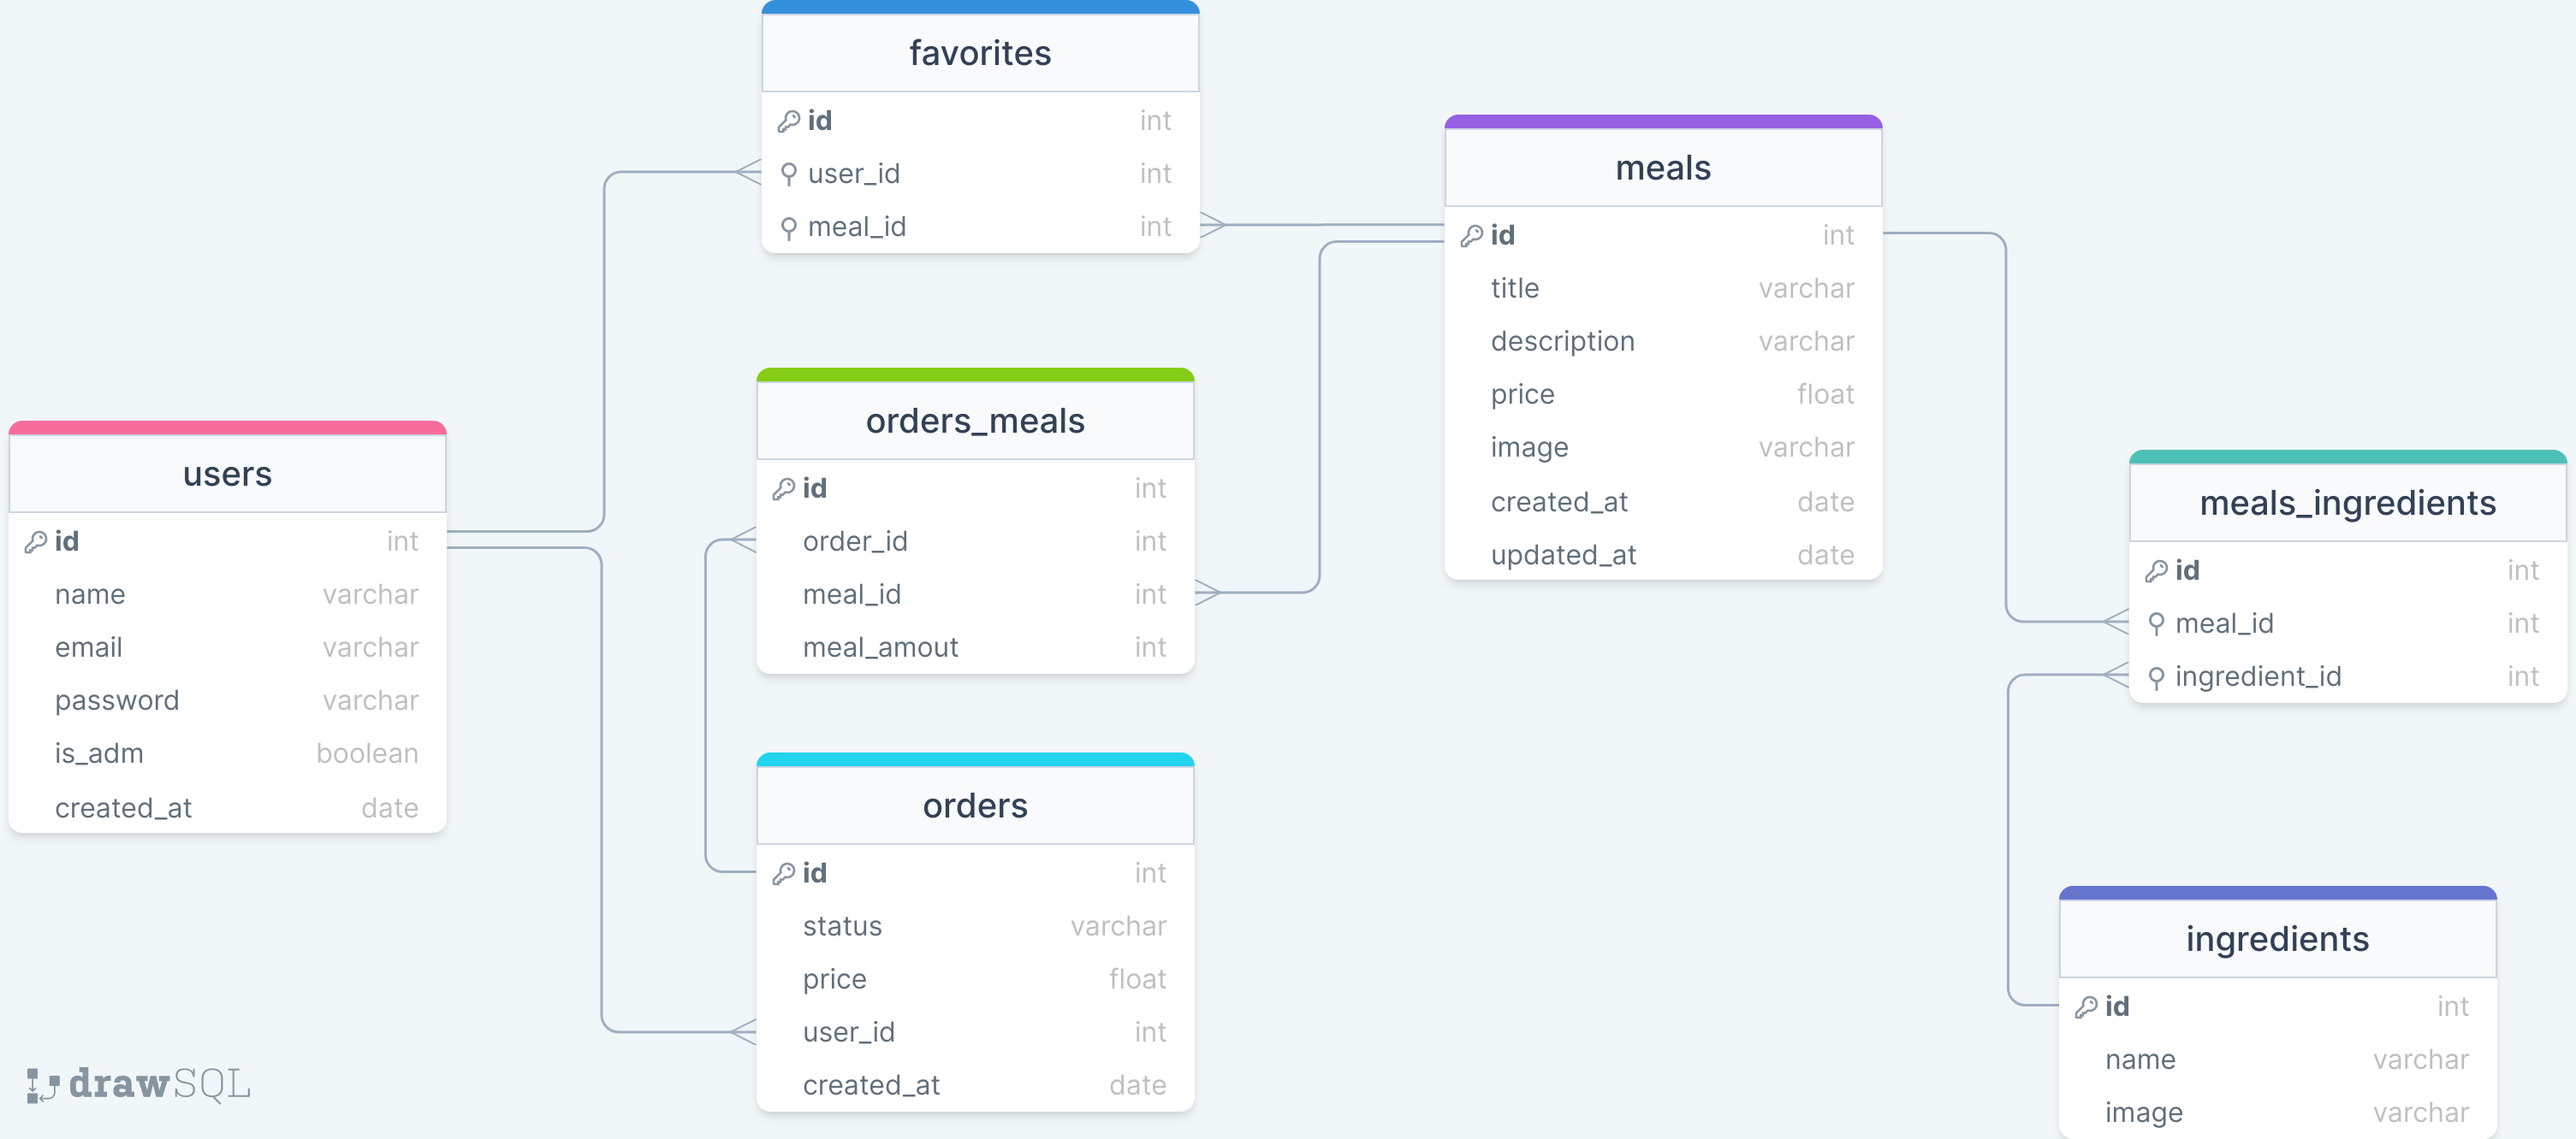
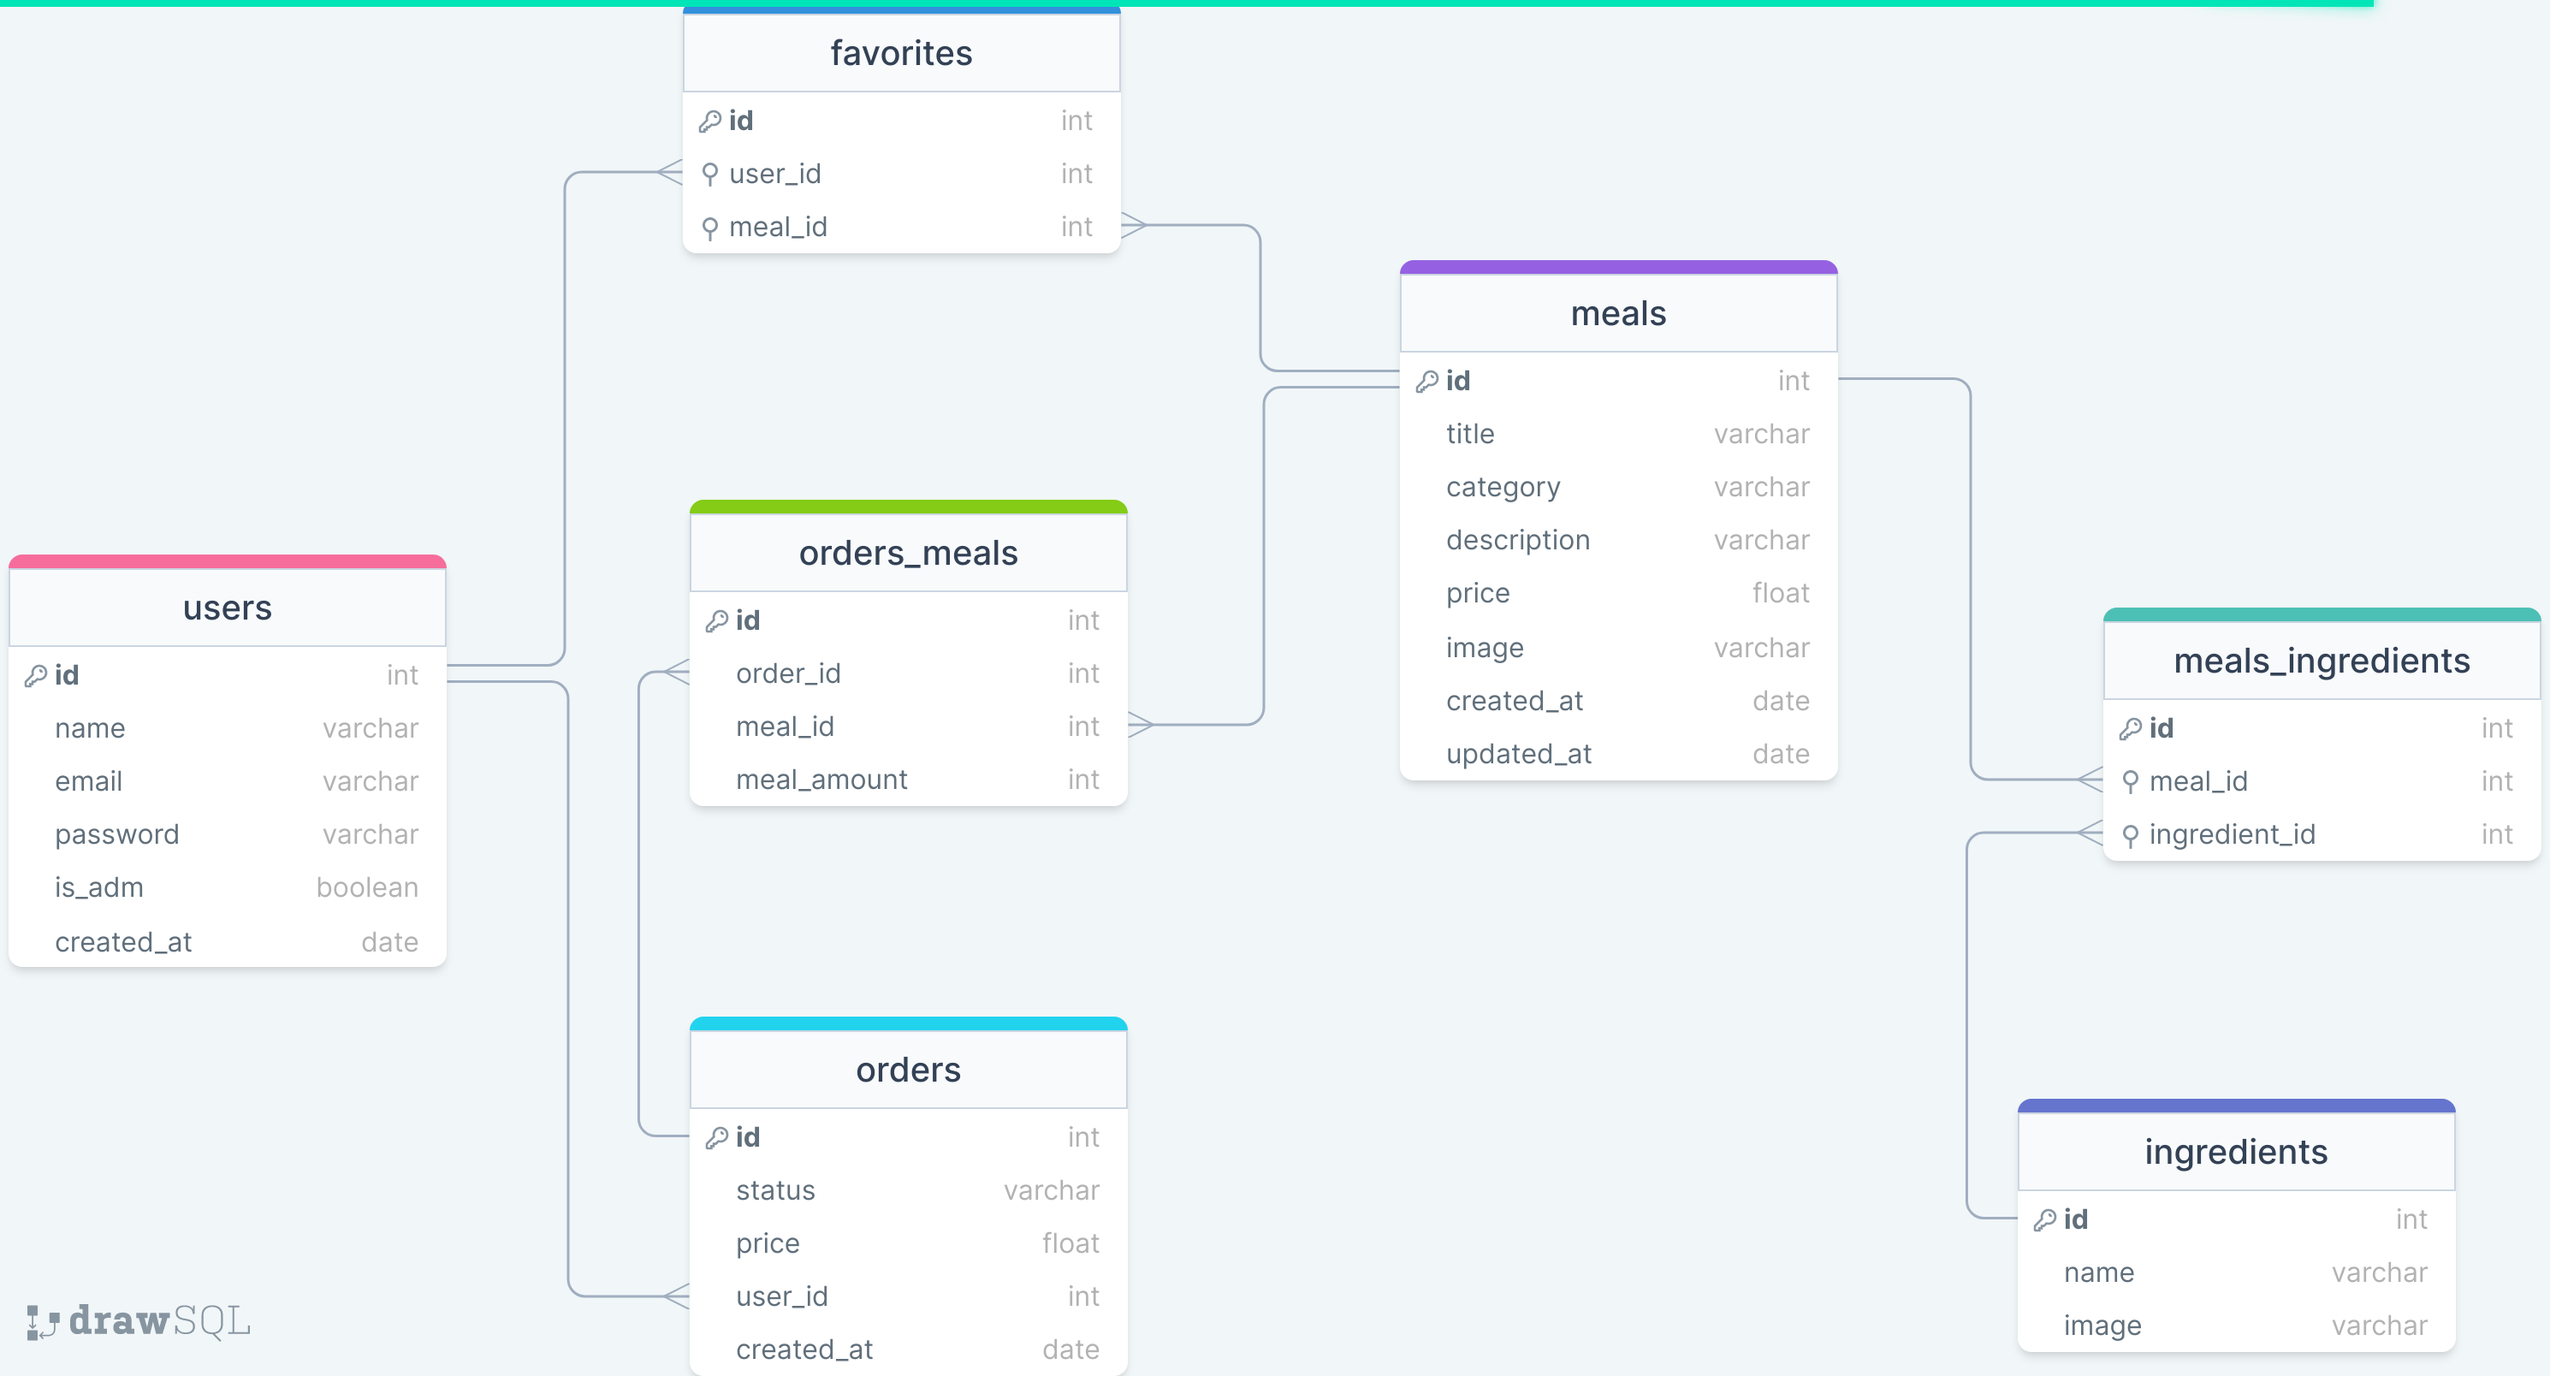
feat: adds the functionality to register a meal with a category

diff --git a/src/controllers/MealsControllers.js b/src/controllers/MealsControllers.js
@@ -13,7 +13,7 @@ const MealIngredientUpdateService = require("../services/meal_ingredient/MealIng
 
 class MealsControllers {
   async create(request, response) {
-    const { title, description, price, ingredients } = request.body;
+    const { title, category, description, price, ingredients } = request.body;
 
     const mealRepository = new MealRepository();
     const mealCreateService = new MealCreateService(mealRepository);
@@ -25,6 +25,7 @@ class MealsControllers {
 
     const mealId = await mealCreateService.execute({
       title,
+      category,
       description,
       price,
     });

diff --git a/src/services/meal/MealCreateService.js b/src/services/meal/MealCreateService.js
@@ -5,8 +5,8 @@ class MealCreateService {
     this.mealRepository = mealRepository;
   }
 
-  async execute({ title, description, price }) {
-    if (!title || !description || !price) {
+  async execute({ title, category, description, price }) {
+    if (!title || !category || !description || !price) {
       throw new AppError(
         "Faltam dados necessário para cadastrar um novo prato."
       );
@@ -26,6 +26,7 @@ class MealCreateService {
 
     const mealId = await this.mealRepository.create({
       title,
+      category,
       description,
       price,
     });

diff --git a/src/repositories/meal/MealRepository.js b/src/repositories/meal/MealRepository.js
@@ -1,9 +1,10 @@
 const knex = require("../../database/knex");
 
 class MealRepository {
-  async create({ title, description, price }) {
+  async create({ title, category, description, price }) {
     const registeredMeal = await knex("meals").insert({
       title,
+      category,
       description,
       price,
     });

diff --git a/src/database/knex/migrations/20221025195955_create-column-category-in-table-meals.js b/src/database/knex/migrations/20221025195955_create-column-category-in-table-meals.js
@@ -1,0 +1,9 @@
+exports.up = knex =>
+  knex.schema.alterTable("meals", table => {
+    table.text("category");
+  });
+
+exports.down = knex =>
+  knex.schema.alterTable("meals", table => {
+    table.dropColumn("category");
+  });
